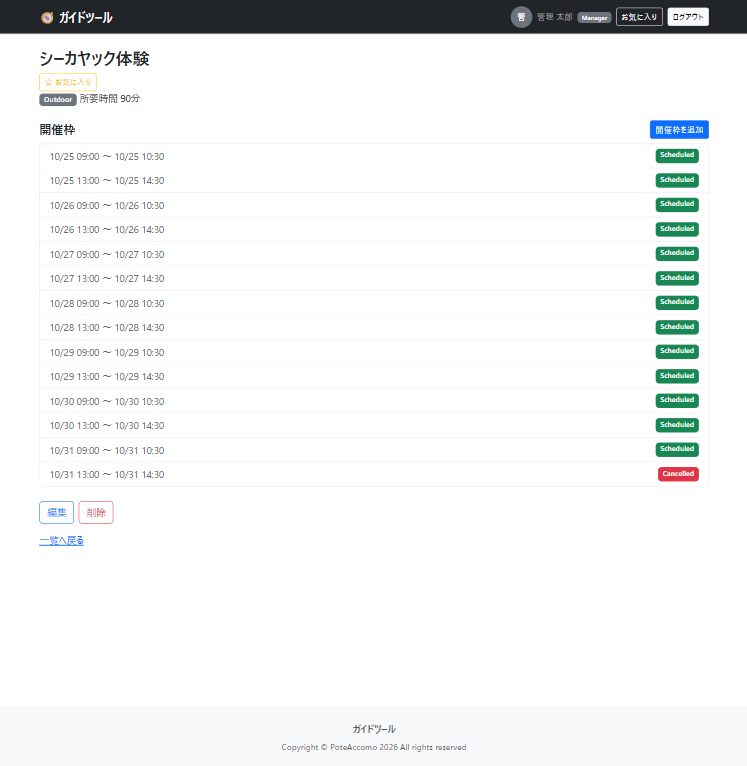
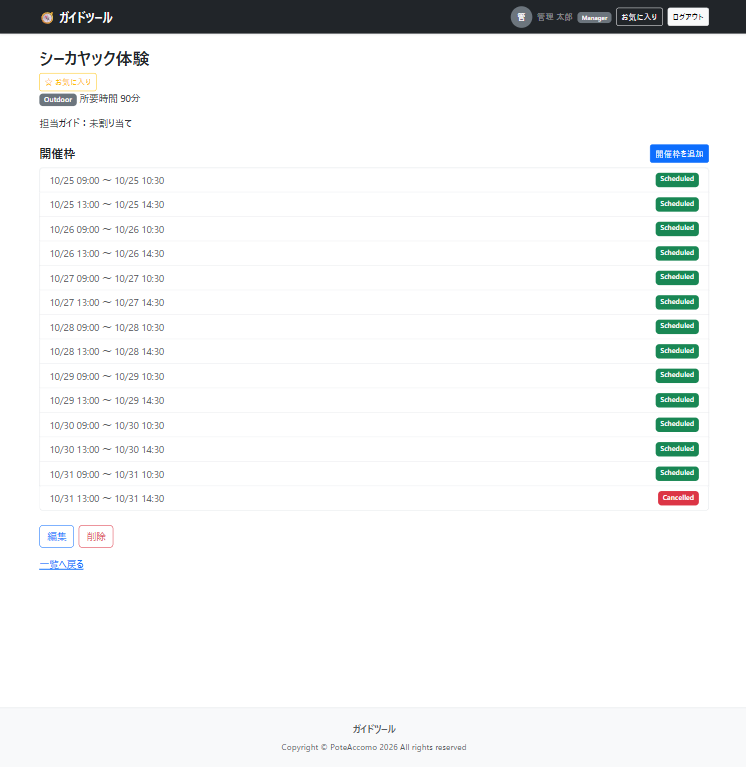
READMEに担当ガイド機能を反映

diff --git a/README.md b/README.md
@@ -86,6 +86,7 @@ flowchart LR
 ```mermaid
 erDiagram
     users ||--o{ favorites : "お気に入り"
+    users |o--o{ activities : "担当ガイド"
     activities ||--o{ favorites : "登録される"
     activities ||--o{ time_slots : "開催枠"
     time_slots ||--o{ participants : "参加者"
@@ -102,6 +103,7 @@ erDiagram
         string title
         integer genre
         integer duration_minutes
+        bigint guide_id FK "担当ガイド(users、任意)"
     }
     time_slots {
         bigint id PK
